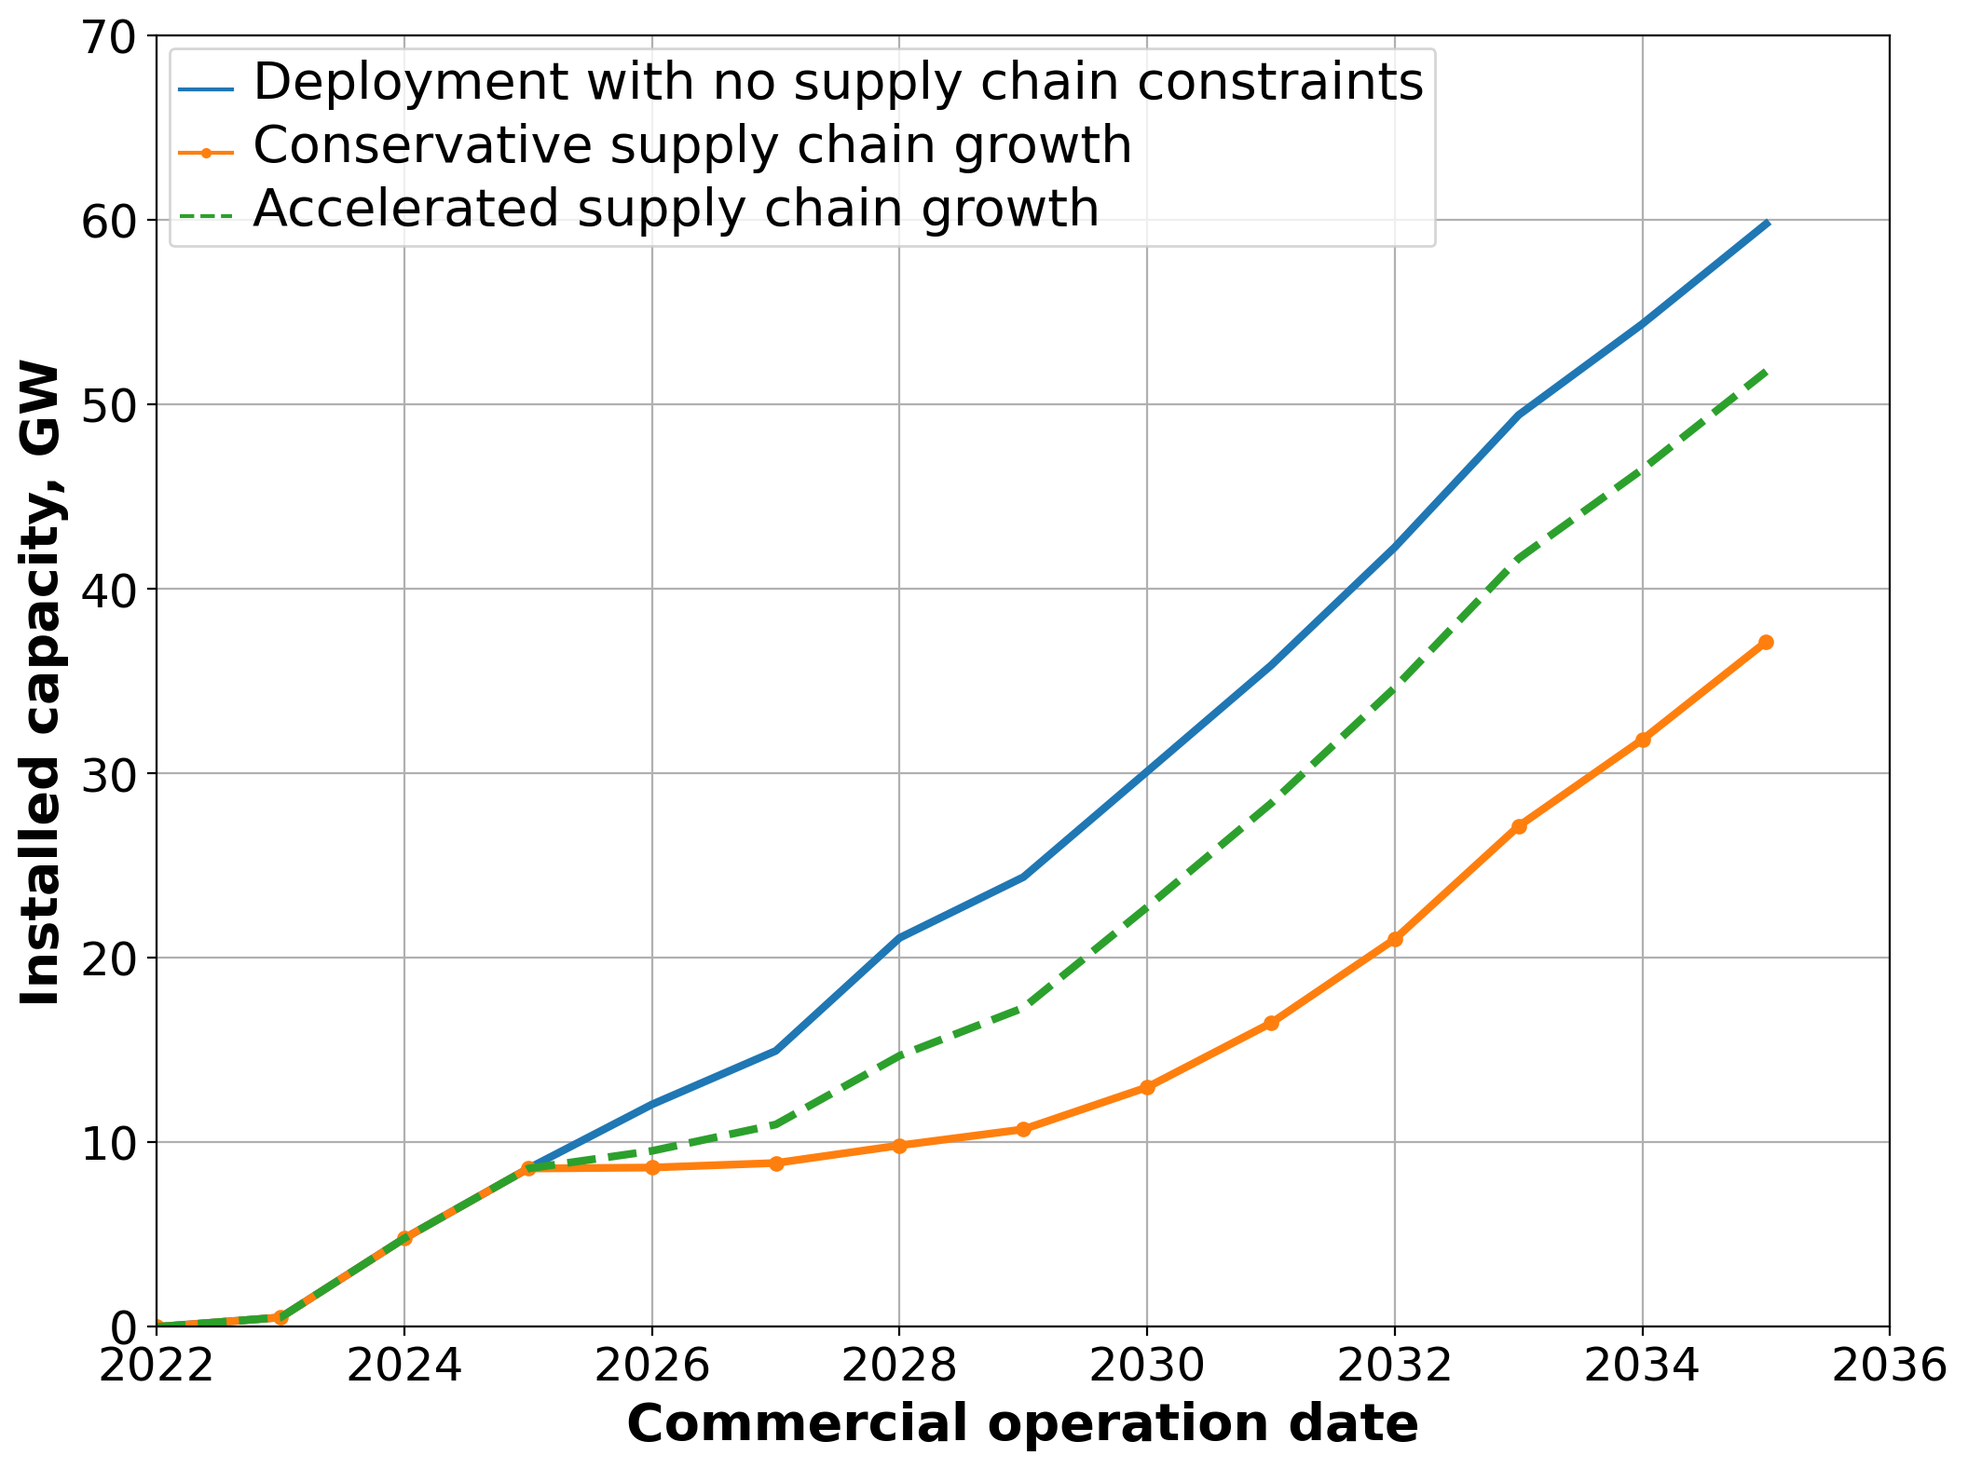
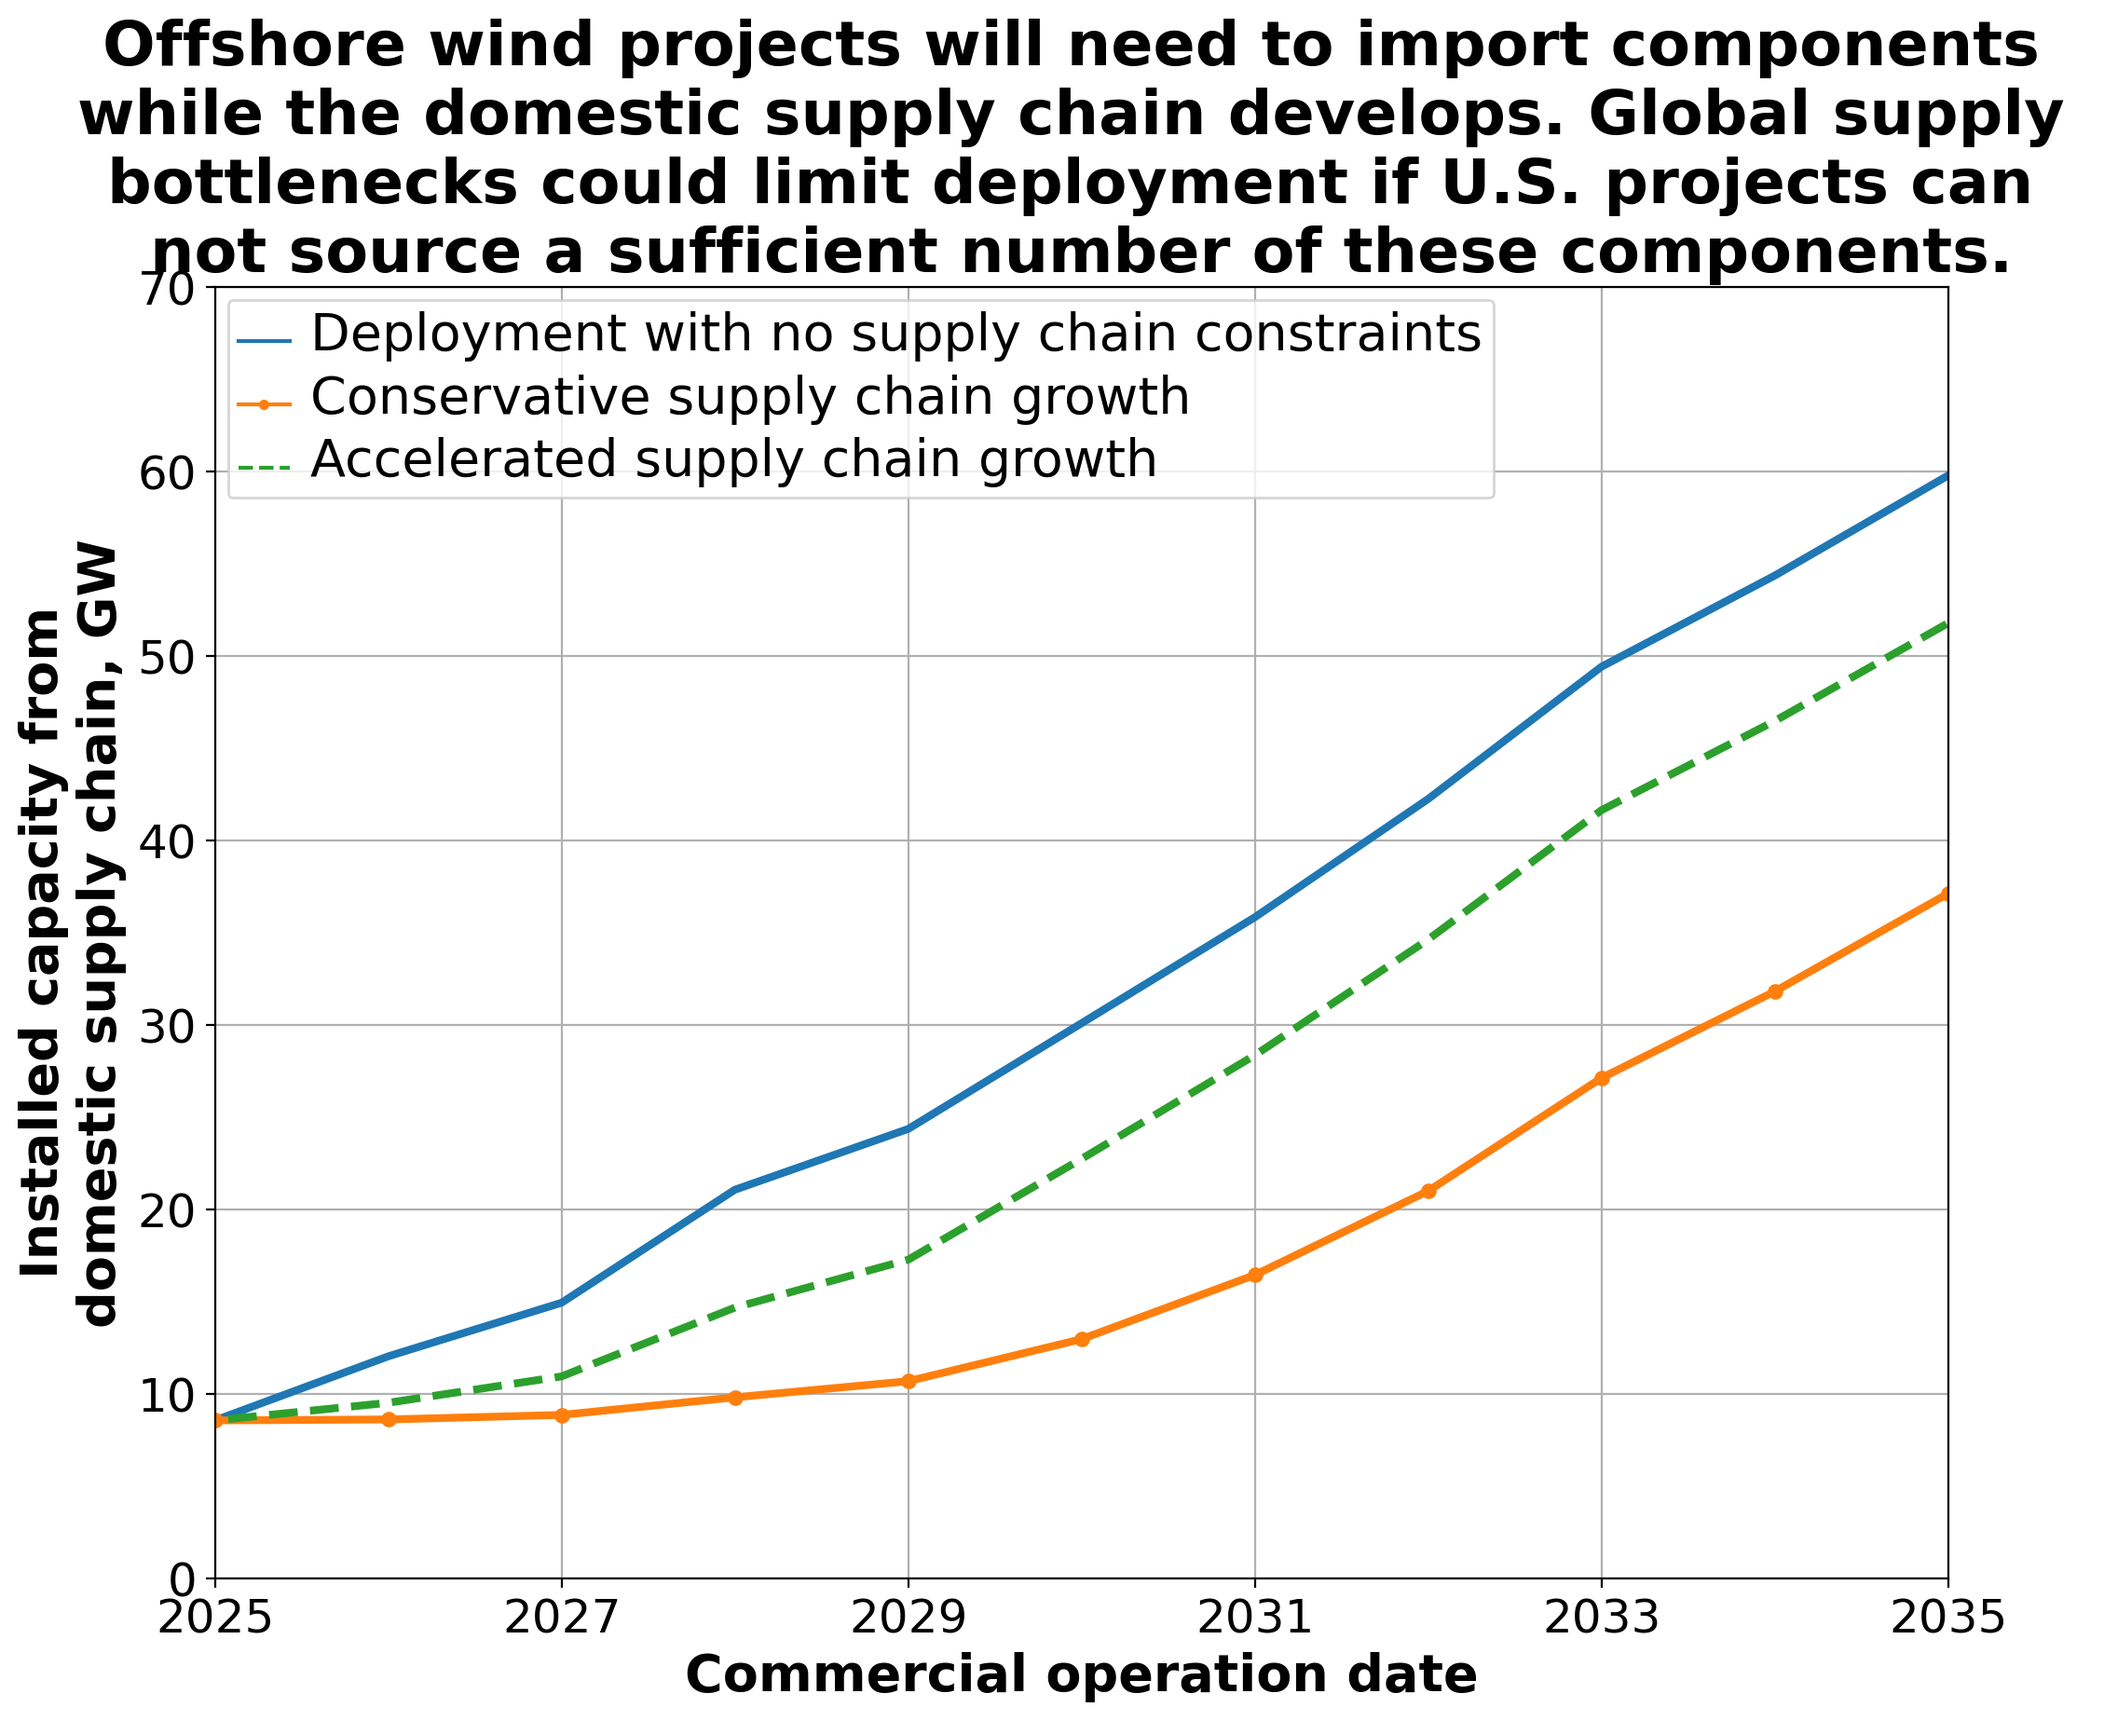
Update deployment plot to focus on US supply chain, add title, update captin

diff --git a/main.py b/main.py
@@ -85,4 +85,4 @@ if __name__ == "__main__":
 
     # Inter-scenario results and plots
     lineplot_comp(mnf_years, domestic_sc_percent_scenarios, legend[1:], linetype[1:], xlabel='Manufacturing date', ylabel='Manufacturing capacity (% of demand)', xlim = [2020, 2034], ylim = [0, 110], fname='results/domestic_percent')
-    lineplot_comp(cod_years, deploy_scenarios, legend, linetype, xlabel='Commercial operation date', ylabel='Installed capacity, GW', xlim = [2022, 2036], ylim = [0, 70], fname='results/deployment_impact')
+    lineplot_comp(cod_years, deploy_scenarios, legend, linetype, xlabel='Commercial operation date', ylabel='Installed capacity from \ndomestic supply chain, GW', xlim = [2025, 2035], ylim = [0, 70], fname='results/deployment_impact', title='Offshore wind projects will need to import components \nwhile the domestic supply chain develops. Global supply \nbottlenecks could limit deployment if U.S. projects can \nnot source a sufficient number of these components.')

diff --git a/plot_routines.py b/plot_routines.py
@@ -444,7 +444,7 @@ def plot_gantt(components, announced, scenario, color_list, single_component=Fal
         mysave(fig, fname)
         plt.close()
 
-def lineplot_comp(x, y, legend, linetype, xlabel, ylabel, xlim, ylim, fname):
+def lineplot_comp(x, y, legend, linetype, xlabel, ylabel, xlim, ylim, fname, title=None):
     fig, ax = initFigAxis()
 
     # Write data out
@@ -460,8 +460,13 @@ def lineplot_comp(x, y, legend, linetype, xlabel, ylabel, xlim, ylim, fname):
     ax.set_ylabel(ylabel)
     ax.set_ylim(ylim)
     ax.set_xlim(xlim)
+    ax.set_xticks(np.arange(xlim[0], xlim[1]+1, step=2))
     ax.legend(loc='upper left')
     ax.grid()
+
+    if title:
+        ax.set_title(title, pad=20)
+
     if fname:
         myformat(ax)
         mysave(fig, fname)
